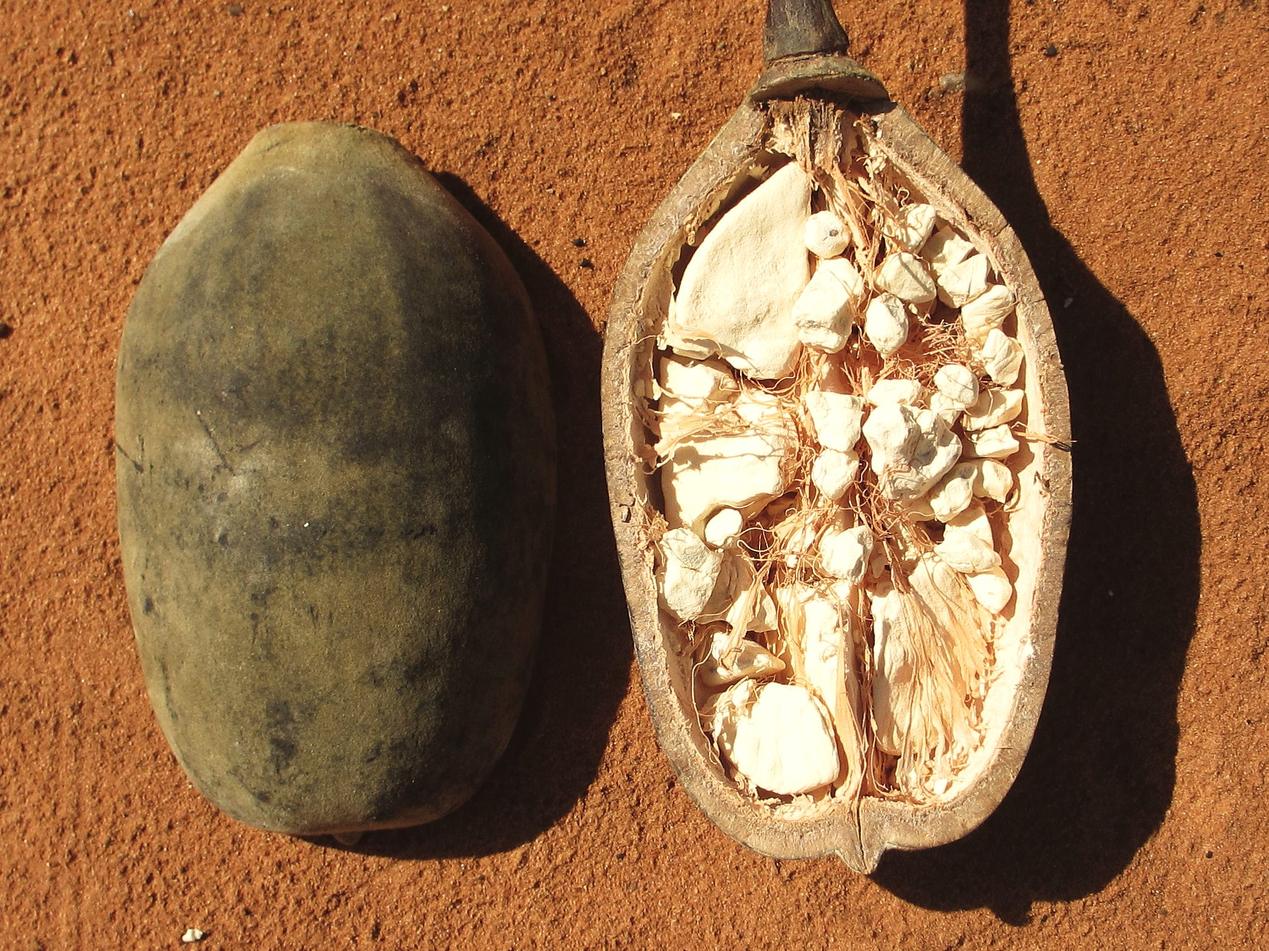
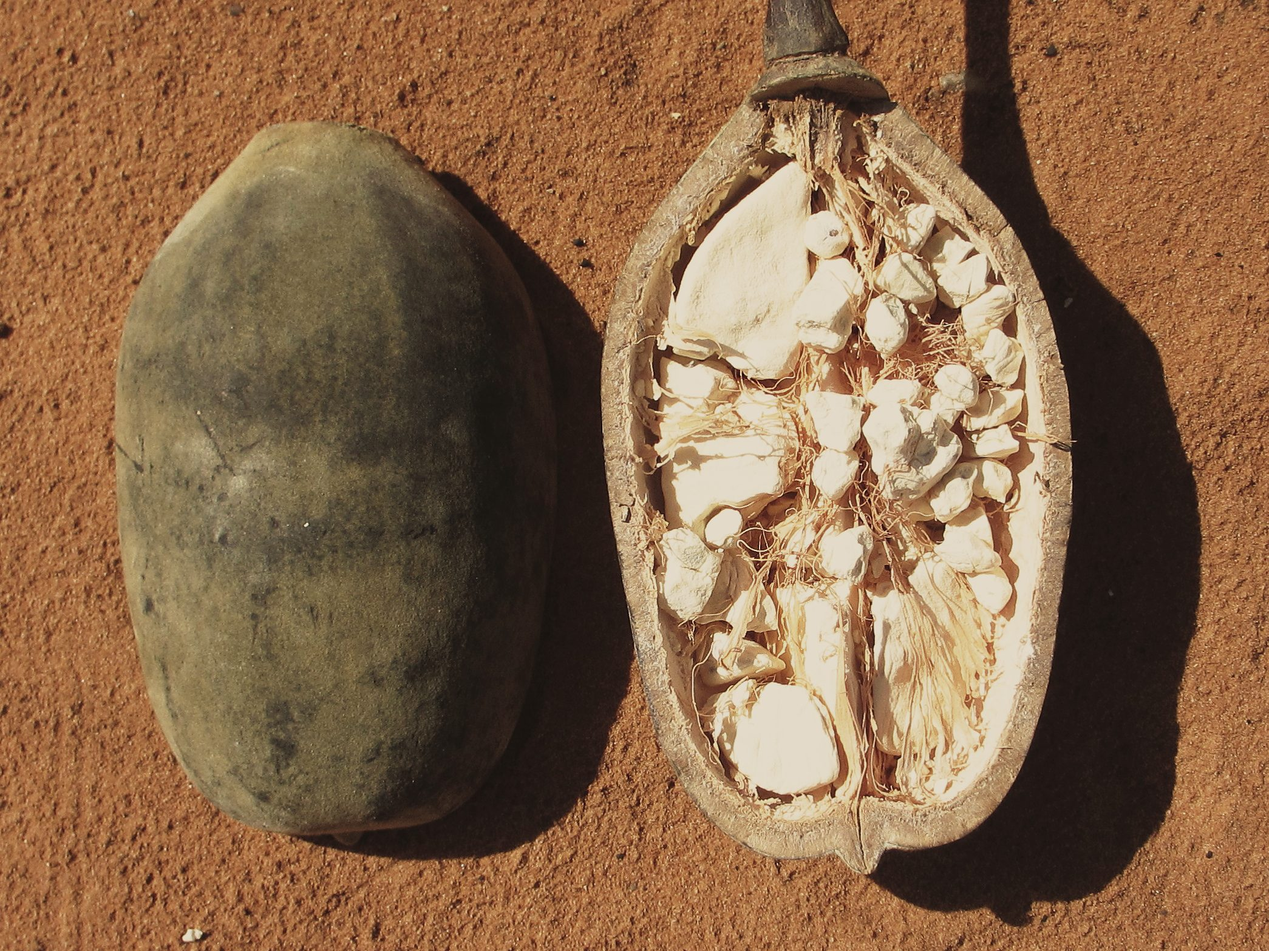
photos: regrade fruit (highlight roll-off) and tree (warm sky); Kev's Fazenda27 plant + fields into Origin; stronger card overlay

diff --git a/assets/fruttita-specimen.css b/assets/fruttita-specimen.css
@@ -154,7 +154,9 @@
 .sp-duo{display:grid;grid-template-columns:1fr 1fr;gap:20px;padding:64px 0}
 .sp-card{position:relative;min-height:420px;border-radius:10px;overflow:hidden;display:flex;flex-direction:column;justify-content:flex-end;padding:32px;text-decoration:none;color:var(--sp-pulp);background:var(--sp-dark)}
 .sp-card img{position:absolute;inset:0;width:100%;height:100%;object-fit:cover;opacity:.92}
-.sp-card .sh{position:absolute;inset:0;background:linear-gradient(transparent 30%,rgba(42,26,18,.85))}
+.sp-card .sh{position:absolute;inset:0;background:linear-gradient(180deg,rgba(42,26,18,.15) 0%,rgba(42,26,18,.55) 45%,rgba(42,26,18,.92) 100%)}
+.sp-card h3,.sp-card p,.sp-card .sp-lab,.sp-card .go{text-shadow:0 1px 2px rgba(0,0,0,.35)}
+.sp-card.q h3,.sp-card.q p,.sp-card.q .sp-lab,.sp-card.q .go{text-shadow:none}
 .sp-card>*{position:relative}
 .sp-card .sp-lab{color:#F3C98B;margin-bottom:10px}
 .sp-card h3{font-size:30px;color:#FBF4EA;margin-bottom:8px}
